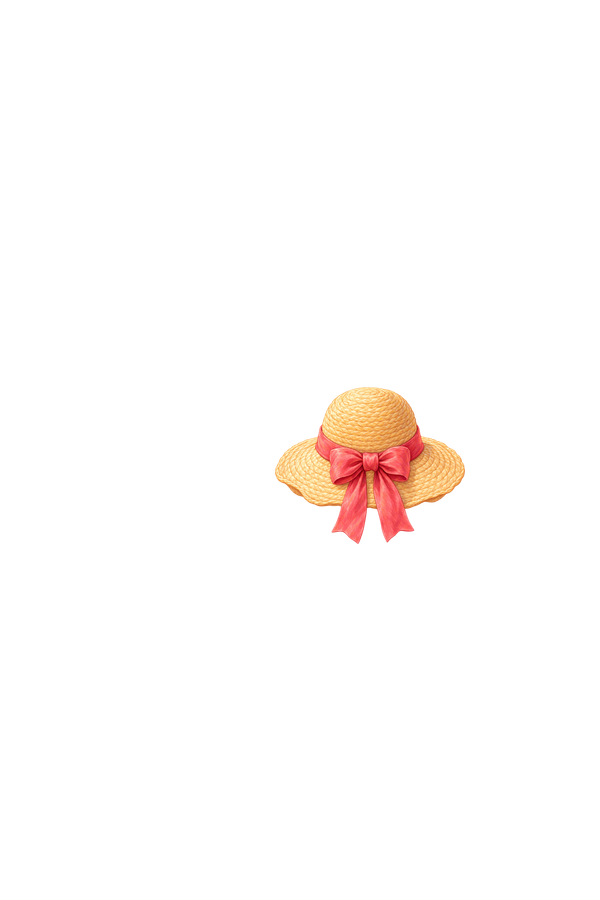
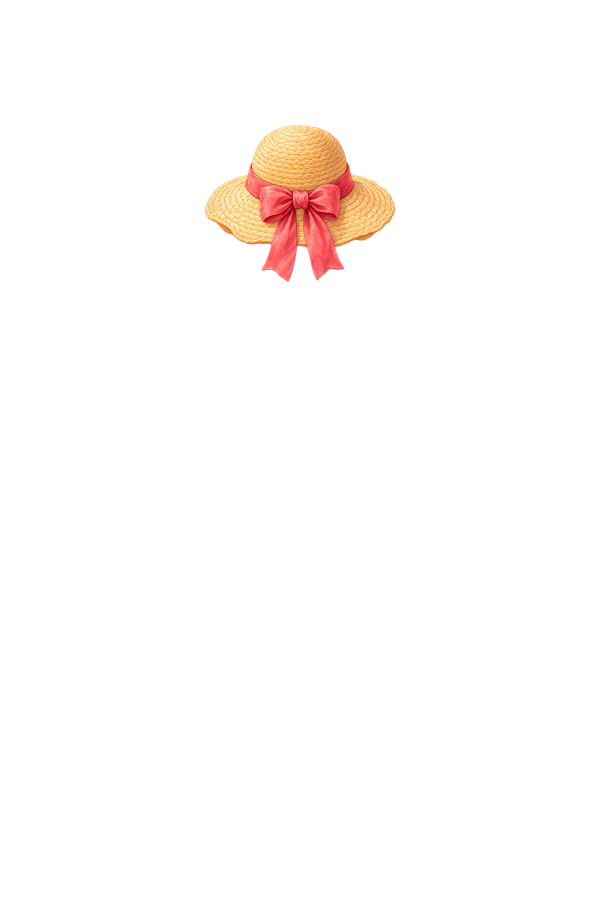
Fix headwear rendering at chest height and skirts floating below waist
Six headwear accessories (pink-beret, straw-sun-hat, floral-headband,
purple-flower-cap, patchwork-bucket-hat-2, puppy-cap) were generated
with slot 'accessory' but no normalizeSlot override, so they landed in
the accessory box (anchored at shoulderY) instead of the hair box
(anchored at head level) — the same bug already fixed once for
travel-cap/bucket-hat. Added them to tokyoManifest's
NORMALIZE_SLOT_OVERRIDE and translated the already-generated art into
the correct head position locally (scripts/fix-headwear-position.mjs).

navy-pleated-skirt and play-skirt (both minis, shorter than the full
305px bottom slot) were vertically centered in that slot instead of
anchored to waistY like every other bottom garment, leaving a ~57px
gap of bare torso above the waistband. Shifted both up to meet the
waistline (scripts/fix-skirt-position.mjs).

Changed region(s): [[0.33, 0.1244, 0.66, 0.3111], [0.45, 0.4044, 0.78, 0.6222]]

diff --git a/server/closet/tokyoManifest.ts b/server/closet/tokyoManifest.ts
@@ -67,6 +67,12 @@ const NORMALIZE_SLOT_OVERRIDE: Record<string, ClosetSlot> = {
   'travel-cap': 'hair',
   'bucket-hat': 'hair',
   'sun-glasses': 'hair',
+  'pink-beret': 'hair',
+  'straw-sun-hat': 'hair',
+  'floral-headband': 'hair',
+  'purple-flower-cap': 'hair',
+  'patchwork-bucket-hat-2': 'hair',
+  'puppy-cap': 'hair',
 };
 
 export type GenerationManifestEntry = {
